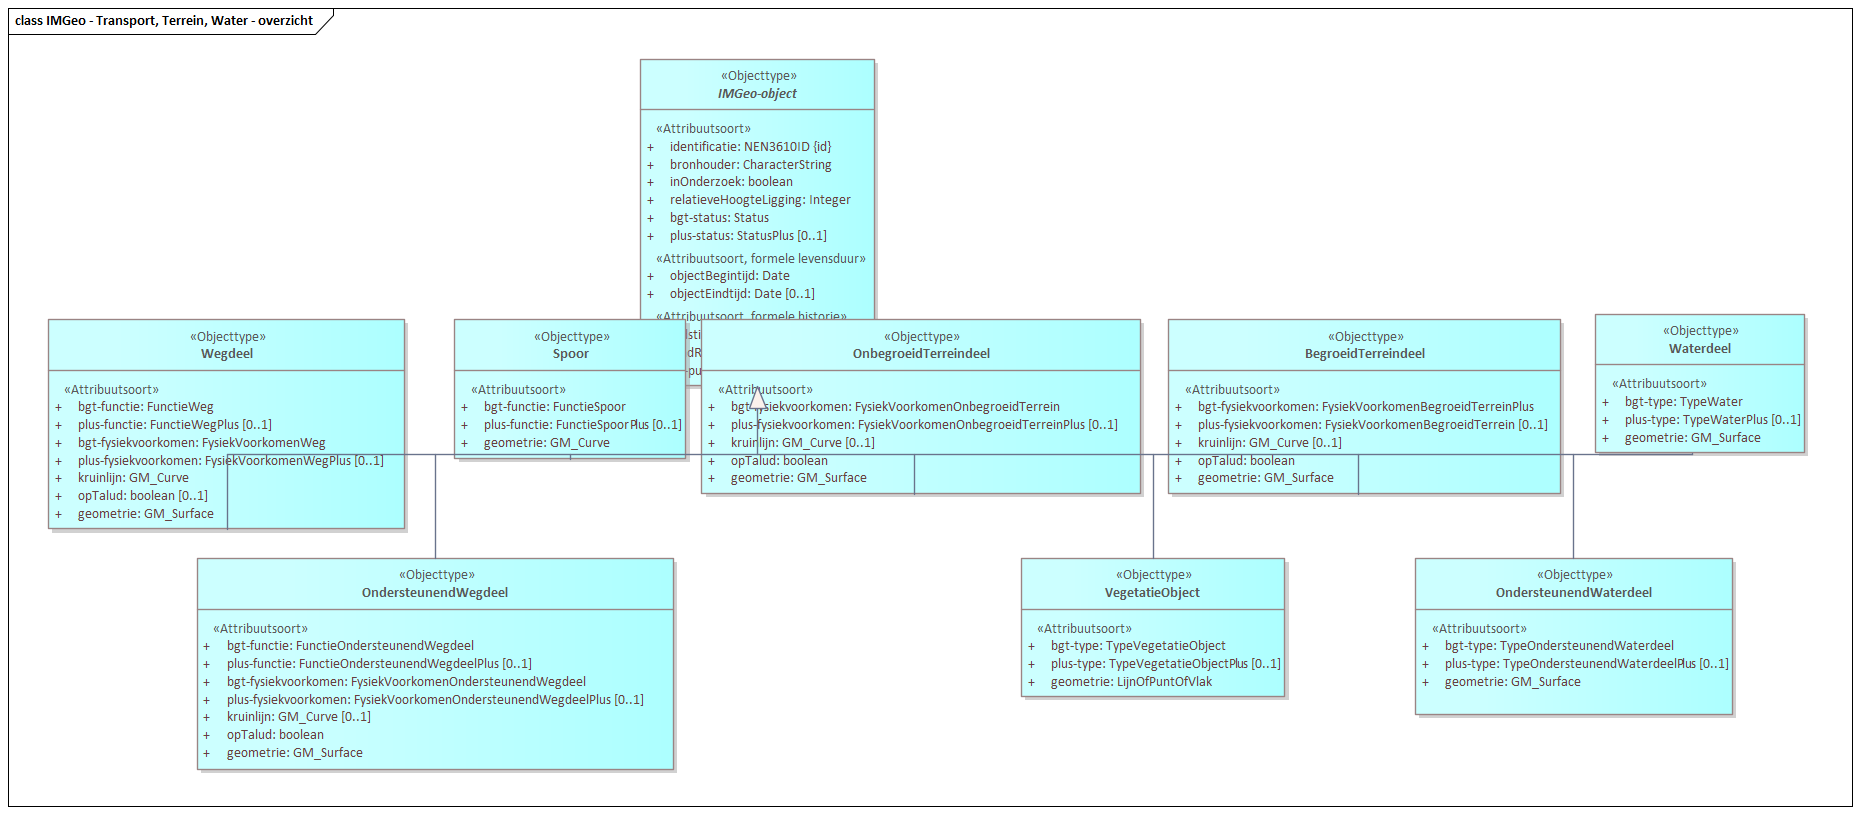
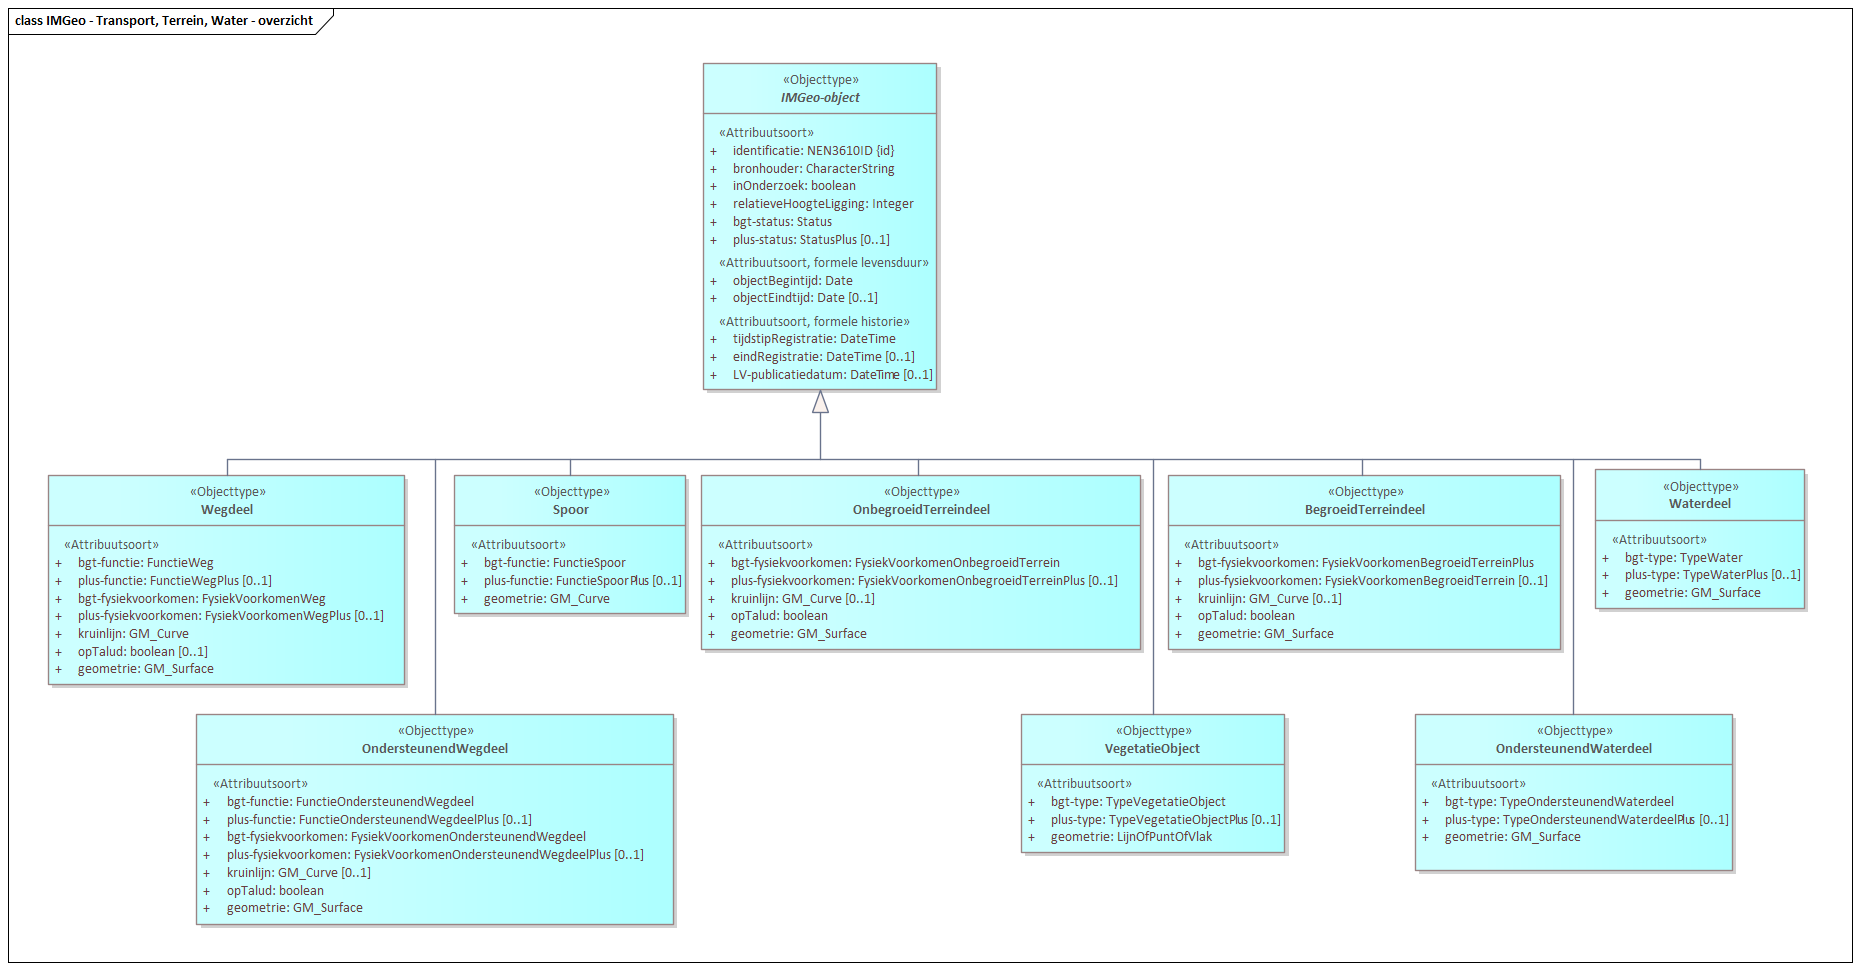
MIMCM-InformatiemodelGeografieIMGeo-logisch-1.0-0-20200701-20230322-212105

Changed region(s): [[0.0, 0.0613, 0.9978, 1.0], [0.0, 0.0, 0.9978, 0.0613]]

diff --git a/data/IMGeoMIM-cat.respec.html b/data/IMGeoMIM-cat.respec.html
@@ -1,7 +1,7 @@
 
 <!DOCTYPE HTML><section id="cat" class="normative">
    <h2>Gegevensdefinitie</h2>
-   <!--MIMCM-InformatiemodelGeografieIMGeo-logisch-1.0-0-20200701-20230322-153005 imvertor 2.0.0-->
+   <!--MIMCM-InformatiemodelGeografieIMGeo-logisch-1.0-0-20200701-20230322-212105 imvertor 2.0.0-->
    <section id="EAID_19A1E182_A2B9_416c_A9AA_509E2DE0FA35">
       <h3>   IMGeo - overzicht</h3>
       <div class="imageinfo overview"><img src="data/Images/EAID_19A1E182_A2B9_416c_A9AA_509E2DE0FA35.png" usemap="#imagemap-EAID_19A1E182_A2B9_416c_A9AA_509E2DE0FA35" alt="Diagram &#xA;                        &#xA;                     "><map name="imagemap-EAID_19A1E182_A2B9_416c_A9AA_509E2DE0FA35"><area shape="rect" alt="OpenbareRuimteLabel" coords="307,388,442,483" href="#graph_EAID_D15209D3_C891_4126_AAC5_110D60E94D9B"><area shape="rect" alt="Mast" coords="2006,423,2129,471" href="#graph_EAID_176BAEBE_40A8_45cd_A37F_41C3A0671133"><area shape="rect" alt="Kast" coords="1845,423,1968,471" href="#graph_EAID_C79E1DC2_F49C_4021_8E6F_E247905BED3B"><area shape="rect" alt="Plaatsbepalingspunt" coords="49,388,172,435" href="#graph_EAID_C30B3B2B_798D_45f4_B950_5ECDC4C79343"><area shape="rect" alt="Wijk" coords="741,675,864,723" href="#graph_EAID_913E0121_A15F_4535_931C_3FE4E1B00303"><area shape="rect" alt="Waterschap" coords="558,675,681,723" href="#graph_EAID_D39A4892_5997_4375_8A2E_8E5B6A1FA856"><area shape="rect" alt="Stadsdeel" coords="841,569,963,617" href="#graph_EAID_F0E6ED7E_A38D_4e7b_8F60_CFE8CDA4A54F"><area shape="rect" alt="OpenbareRuimte" coords="461,569,584,617" href="#graph_EAID_3161555D_ED8E_4bd6_9AAF_211C63D8F2B3"><area shape="rect" alt="Buurt" coords="643,569,766,617" href="#graph_EAID_F4E92B5F_5E6C_4840_A29D_9AAB2F06290E"><area shape="rect" alt="RegistratiefGebied" coords="626,388,749,476" href="#graph_EAID_FFB958D2_4DA5_4934_AB87_0A233A0627CB"><area shape="rect" alt="Waterinrichtingselement" coords="1912,486,2059,534" href="#graph_EAID_84D3BE49_204E_4b23_92C8_A97F5FCB0B66"><area shape="rect" alt="VegetatieObject" coords="478,317,600,364" href="#graph_EAID_65702AA3_52E5_4ce6_B93C_E5A7FD122113"><area shape="rect" alt="Straatmeubilair" coords="1627,486,1749,534" href="#graph_EAID_48D06696_B549_4232_ADB3_BC748B8F2FB6"><area shape="rect" alt="Put" coords="1482,486,1605,534" href="#graph_EAID_3D4EDECC_98BC_4bc2_BF4D_0FCCDE27C25B"><area shape="rect" alt="Paal" coords="2163,423,2286,471" href="#graph_EAID_34FD1BDF_63FD_49a4_BFC3_0D398F8011B6"><area shape="rect" alt="Installatie" coords="1696,423,1819,471" href="#graph_EAID_CF96664B_E390_4b7e_A384_B2B6EE7F0EFA"><area shape="rect" alt="Gebouwinstallatie" coords="1055,297,1178,345" href="#graph_EAID_3168865B_C268_4401_99DA_A918BC6DCF17"><area shape="rect" alt="Bord" coords="1553,423,1676,471" href="#graph_EAID_75583BC8_0468_458e_8BA5_90F7F867B4EE"><area shape="rect" alt="Bak" coords="1401,423,1524,471" href="#graph_EAID_42E5AF4B_75AB_41e5_8161_49A8D34221C2"><area shape="rect" alt="Inrichtingselement" coords="1401,297,1526,345" href="#graph_EAID_9829F381_8189_468c_8B19_60FF0C55A944"><area shape="rect" alt="FunctioneelGebied" coords="892,388,1015,476" href="#graph_EAID_5187B9C8_F234_4f5d_9791_18CB110AD40E"><area shape="rect" alt="Scheiding" coords="1178,456,1300,504" href="#graph_EAID_7832FAF8_08E2_4a10_89C7_BF4DD69C7E43"><area shape="rect" alt="Tunneldeel" coords="1220,297,1343,345" href="#graph_EAID_0FE1337A_AE15_479f_9472_E33139DA7E9D"><area shape="rect" alt="Overbruggingsdeel" coords="1305,218,1427,266" href="#graph_EAID_6984A857_76B6_4b0c_BCFF_4E6AD49F9D53"><area shape="rect" alt="Kunstwerkdeel" coords="1264,388,1386,435" href="#graph_EAID_9EDB306B_4B8E_4e72_BCF2_F6D69D0852A6"><area shape="rect" alt="OverigeConstructie" coords="1141,218,1264,289" href="#graph_EAID_378B52F1_0A3E_47b6_8091_865ABAD0A195"><area shape="rect" alt="OverigBouwwerk" coords="1099,388,1220,435" href="#graph_EAID_D97F21C8_E8F8_48ba_8A7E_2FCE62C7A1F0"><area shape="rect" alt="Pand" coords="987,218,1109,266" href="#graph_EAID_68C2811C_463E_4895_87B5_CEA7FB9C5415"><area shape="rect" alt="OndersteunendWaterdeel" coords="752,297,937,345" href="#graph_EAID_28424898_D030_439f_983B_FB38CE87B52A"><area shape="rect" alt="Waterdeel" coords="708,218,831,266" href="#graph_EAID_6F75619D_9A09_428b_98AB_6EA70AD426FF"><area shape="rect" alt="OnbegroeidTerreindeel" coords="359,218,525,266" href="#graph_EAID_1D26638F_421F_469c_AB04_0926DE797EA4"><area shape="rect" alt="BegroeidTerreindeel" coords="551,218,674,307" href="#graph_EAID_53CB1AA9_2415_4316_9FEE_AA7500FA0997"><area shape="rect" alt="Sensor" coords="1770,486,1893,534" href="#graph_EAID_B6F91BEC_4021_4b63_A098_556F2CE87D9F"><area shape="rect" alt="Weginrichtingselement" coords="2078,486,2216,534" href="#graph_EAID_2D679E1C_FAE1_4a0d_ACD2_E88A02C661EB"><area shape="rect" alt="Spoor" coords="217,218,340,266" href="#graph_EAID_B99D1067_DC46_410a_BE66_101A83402220"><area shape="rect" alt="OndersteunendWegdeel" coords="106,297,277,345" href="#graph_EAID_5F6A391D_9E86_4c86_90D8_1912C664912F"><area shape="rect" alt="IMGeo-object" coords="613,63,801,134" href="#graph_EAID_908837CE_A431_4c27_AECB_4B2A15407653"><area shape="rect" alt="Wegdeel" coords="48,218,171,266" href="#graph_EAID_31DAB62F_D6BE_4f3d_AD01_644667CF0325"></map><p><b>IMGeo - overzicht</b></p>
@@ -9,7 +9,7 @@
    </section>
    <section id="EAID_0582C35F_9F48_4ae0_B69C_9AA2546253F3">
       <h3>   IMGeo - Transport, Terrein, Water - overzicht</h3>
-      <div class="imageinfo overview"><img src="data/Images/EAID_0582C35F_9F48_4ae0_B69C_9AA2546253F3.png" usemap="#imagemap-EAID_0582C35F_9F48_4ae0_B69C_9AA2546253F3" alt="Diagram &#xA;                        &#xA;                     "><map name="imagemap-EAID_0582C35F_9F48_4ae0_B69C_9AA2546253F3"><area shape="rect" alt="OndersteunendWaterdeel" coords="1415,558,1733,715" href="#graph_EAID_28424898_D030_439f_983B_FB38CE87B52A"><area shape="rect" alt="Waterdeel" coords="1595,314,1805,453" href="#graph_EAID_6F75619D_9A09_428b_98AB_6EA70AD426FF"><area shape="rect" alt="VegetatieObject" coords="1021,558,1285,697" href="#graph_EAID_65702AA3_52E5_4ce6_B93C_E5A7FD122113"><area shape="rect" alt="OnbegroeidTerreindeel" coords="701,319,1141,494" href="#graph_EAID_1D26638F_421F_469c_AB04_0926DE797EA4"><area shape="rect" alt="BegroeidTerreindeel" coords="1168,319,1561,494" href="#graph_EAID_53CB1AA9_2415_4316_9FEE_AA7500FA0997"><area shape="rect" alt="Spoor" coords="454,319,686,459" href="#graph_EAID_B99D1067_DC46_410a_BE66_101A83402220"><area shape="rect" alt="OndersteunendWegdeel" coords="197,558,674,770" href="#graph_EAID_5F6A391D_9E86_4c86_90D8_1912C664912F"><area shape="rect" alt="IMGeo-object" coords="640,59,875,386" href="#graph_EAID_908837CE_A431_4c27_AECB_4B2A15407653"><area shape="rect" alt="Wegdeel" coords="48,319,405,529" href="#graph_EAID_31DAB62F_D6BE_4f3d_AD01_644667CF0325"></map><p><b>IMGeo - Transport, Terrein, Water - overzicht</b></p>
+      <div class="imageinfo overview"><img src="data/Images/EAID_0582C35F_9F48_4ae0_B69C_9AA2546253F3.png" usemap="#imagemap-EAID_0582C35F_9F48_4ae0_B69C_9AA2546253F3" alt="Diagram &#xA;                        &#xA;                     "><map name="imagemap-EAID_0582C35F_9F48_4ae0_B69C_9AA2546253F3"><area shape="rect" alt="OndersteunendWaterdeel" coords="1415,714,1733,871" href="#graph_EAID_28424898_D030_439f_983B_FB38CE87B52A"><area shape="rect" alt="Waterdeel" coords="1595,469,1805,609" href="#graph_EAID_6F75619D_9A09_428b_98AB_6EA70AD426FF"><area shape="rect" alt="VegetatieObject" coords="1021,714,1285,853" href="#graph_EAID_65702AA3_52E5_4ce6_B93C_E5A7FD122113"><area shape="rect" alt="OnbegroeidTerreindeel" coords="701,475,1141,650" href="#graph_EAID_1D26638F_421F_469c_AB04_0926DE797EA4"><area shape="rect" alt="BegroeidTerreindeel" coords="1168,475,1561,650" href="#graph_EAID_53CB1AA9_2415_4316_9FEE_AA7500FA0997"><area shape="rect" alt="Spoor" coords="454,475,686,614" href="#graph_EAID_B99D1067_DC46_410a_BE66_101A83402220"><area shape="rect" alt="OndersteunendWegdeel" coords="196,714,674,925" href="#graph_EAID_5F6A391D_9E86_4c86_90D8_1912C664912F"><area shape="rect" alt="IMGeo-object" coords="703,63,937,390" href="#graph_EAID_908837CE_A431_4c27_AECB_4B2A15407653"><area shape="rect" alt="Wegdeel" coords="48,475,405,685" href="#graph_EAID_31DAB62F_D6BE_4f3d_AD01_644667CF0325"></map><p><b>IMGeo - Transport, Terrein, Water - overzicht</b></p>
       </div>
    </section>
    <section id="EAID_4AF5B562_5D16_461d_A22C_0917739A33B4">
@@ -29,7 +29,7 @@
          
          <section id="EAID_A64B048F_E63E_40a2_9677_48B00B5C17D8">
             <h5>   IMGeo-object - detail</h5>
-            <div class="imageinfo "><img src="data/Images/EAID_A64B048F_E63E_40a2_9677_48B00B5C17D8.png" usemap="#imagemap-EAID_A64B048F_E63E_40a2_9677_48B00B5C17D8" alt="Diagram &#xA;                              &#xA;                           "><map name="imagemap-EAID_A64B048F_E63E_40a2_9677_48B00B5C17D8"><area shape="rect" alt="NEN3610ID" coords="319,344,509,465" href="#graph_EAID_73FA723E_4CD5_48b3_BB31_29087265B044"><area shape="rect" alt="StatusPlus" coords="319,214,442,318" href="#graph_EAID_190EF3DF_8F66_45e7_9C1E_2B63E8B1C607"><area shape="rect" alt="Status" coords="319,63,442,166" href="#graph_EAID_381B6A82_524B_480f_A926_1A44B0D9DDB1"><area shape="rect" alt="IMGeo-object" coords="48,63,282,390" href="#graph_EAID_908837CE_A431_4c27_AECB_4B2A15407653"></map><p><b>IMGeo-object - detail</b></p>
+            <div class="imageinfo "><img src="data/Images/EAID_A64B048F_E63E_40a2_9677_48B00B5C17D8.png" usemap="#imagemap-EAID_A64B048F_E63E_40a2_9677_48B00B5C17D8" alt="Diagram &#xA;                              &#xA;                           "><map name="imagemap-EAID_A64B048F_E63E_40a2_9677_48B00B5C17D8"><area shape="rect" alt="NEN3610ID" coords="319,329,509,450" href="#graph_EAID_73FA723E_4CD5_48b3_BB31_29087265B044"><area shape="rect" alt="StatusPlus" coords="319,198,442,302" href="#graph_EAID_190EF3DF_8F66_45e7_9C1E_2B63E8B1C607"><area shape="rect" alt="Status" coords="319,63,442,166" href="#graph_EAID_381B6A82_524B_480f_A926_1A44B0D9DDB1"><area shape="rect" alt="IMGeo-object" coords="48,63,282,390" href="#graph_EAID_908837CE_A431_4c27_AECB_4B2A15407653"></map><p><b>IMGeo-object - detail</b></p>
             </div>
          </section>
          
@@ -14201,7 +14201,7 @@
 </section>
 <section id="lis" class="normative">
    <h2>Inhoud van waardenlijsten</h2>
-   <!--MIMCM-InformatiemodelGeografieIMGeo-logisch-1.0-0-20200701-20230322-153005 imvertor 2.0.0--><a class="anchor" id="graph_EAID_381B6A82_524B_480f_A926_1A44B0D9DDB1"></a><a class="anchor" id="detail_class_IMGeo_Status"></a><section id="detail_class_IMGeo_Status">
+   <!--MIMCM-InformatiemodelGeografieIMGeo-logisch-1.0-0-20200701-20230322-212105 imvertor 2.0.0--><a class="anchor" id="graph_EAID_381B6A82_524B_480f_A926_1A44B0D9DDB1"></a><a class="anchor" id="detail_class_IMGeo_Status"></a><section id="detail_class_IMGeo_Status">
       <h3>Enumeratie details  Status</h3>
       
       <table style="width: 100%;" class="list">
